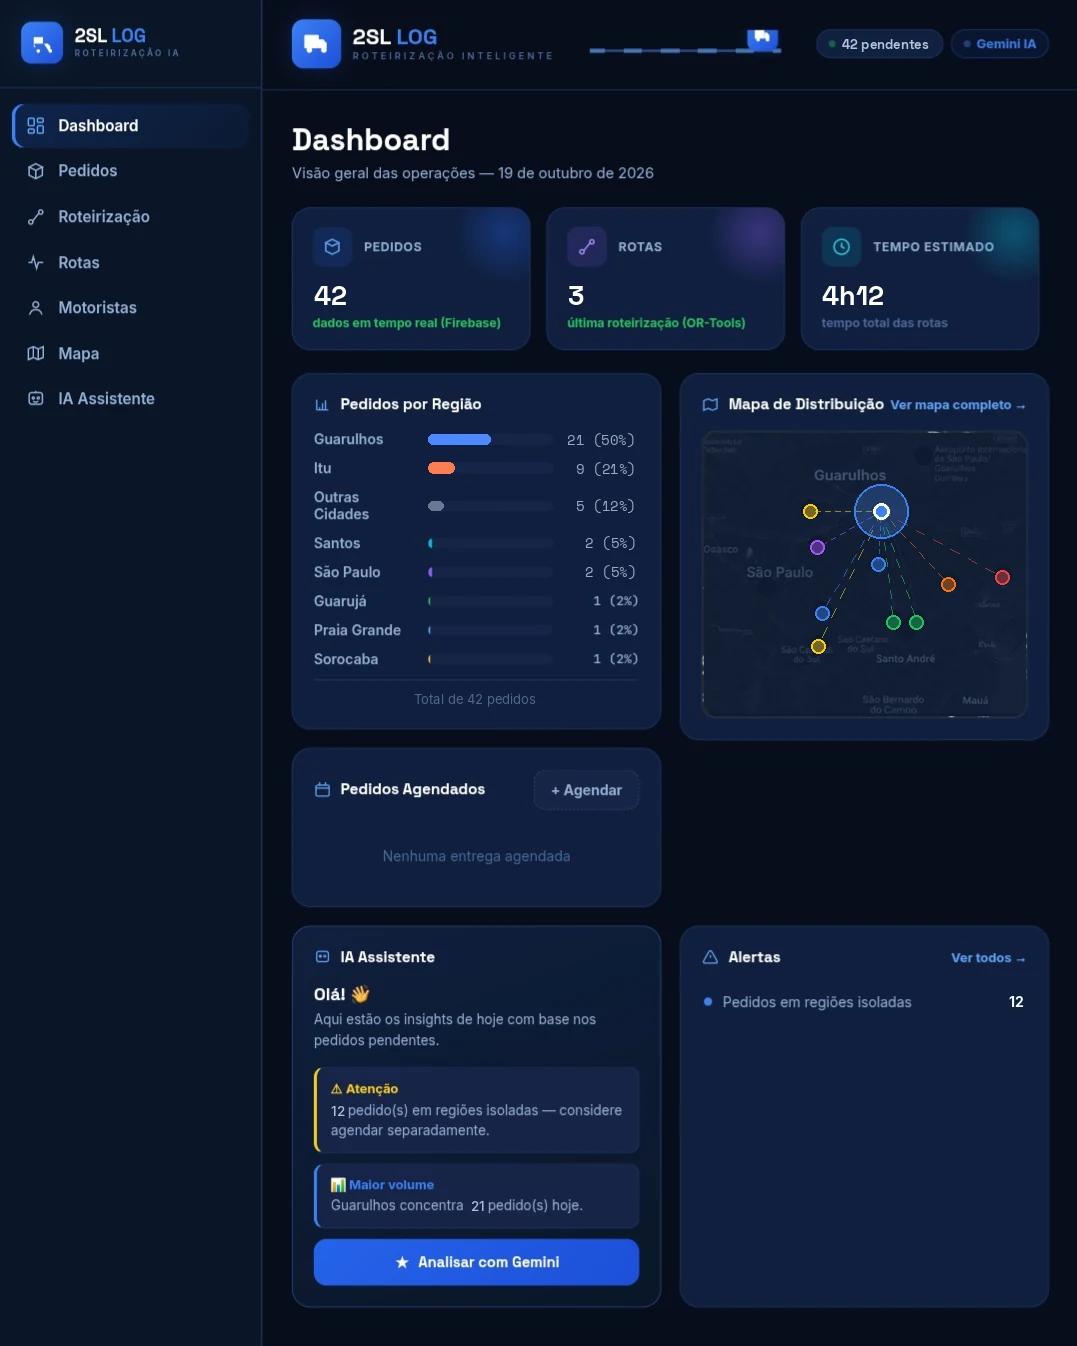
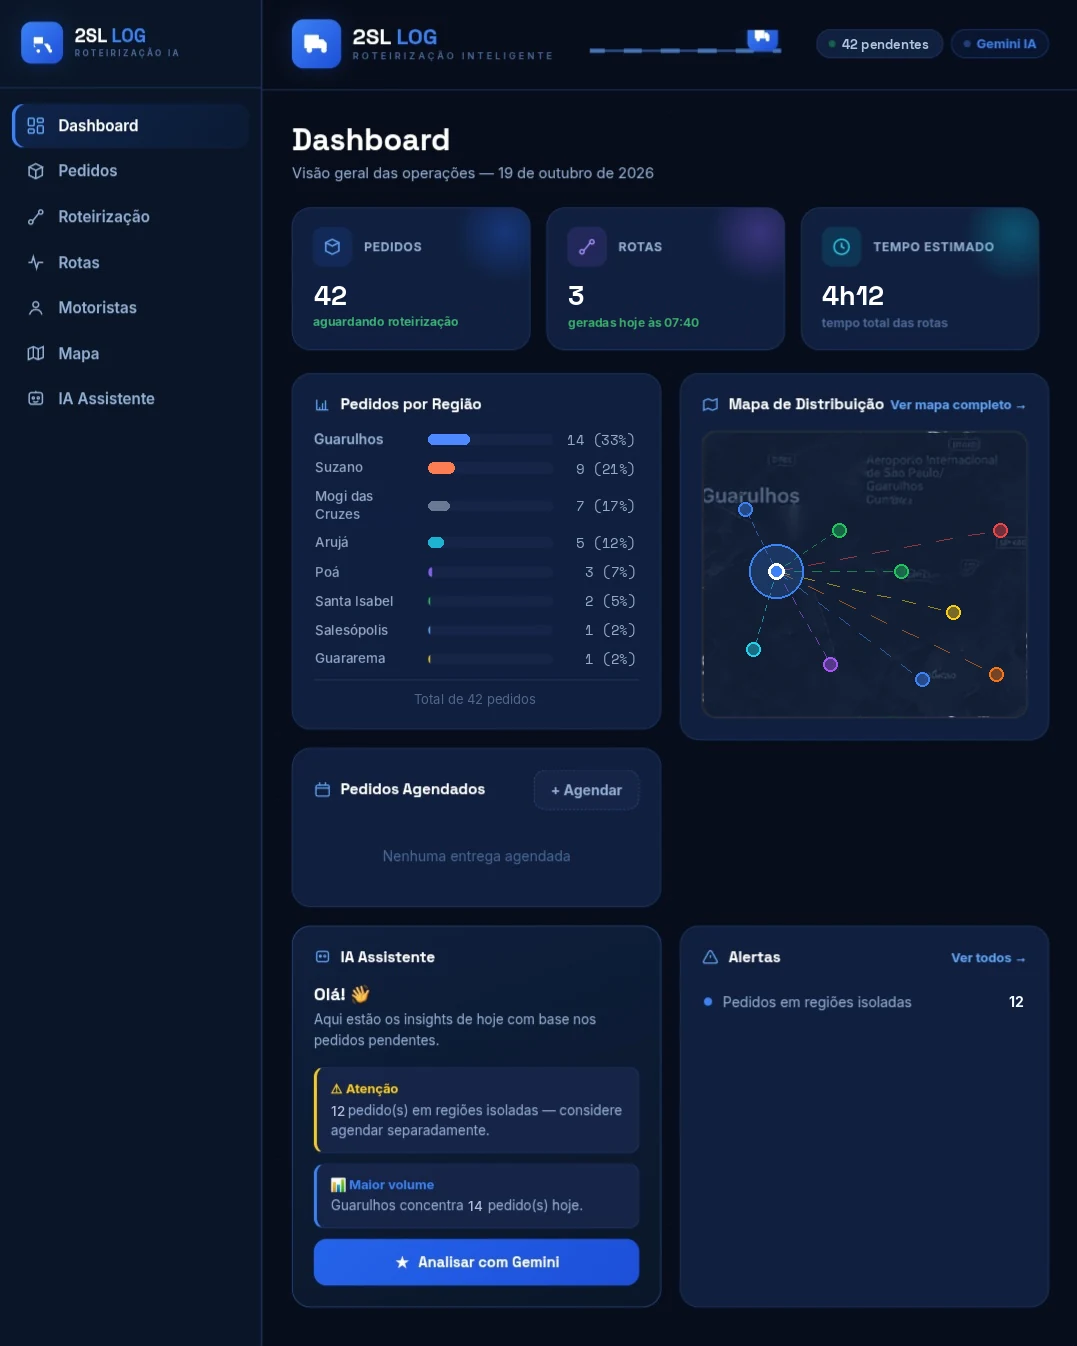
Modelos de empresas com dados diferentes entre si
- Via Verde: 87 pedidos, 6 rotas, cidades da Grande SP, data 16/10,
  usuário genérico e textos sem Firebase/OR-Tools
- 2SL Log: cidades do Alto Tietê e mapa de outro trecho, sem marcadores
  antigos

Claude-Session: https://claude.ai/code/session_01Y2emP6HBaBvSJzja7iZRew

diff --git a/README.md b/README.md
@@ -69,8 +69,9 @@ A imagem precisa de endereço completo; por isso ela não está ligada ainda.
 
 - O topo mostra a imagem do painel (`img/painel-rotav3.webp`), enviada em 18/10/2026. O notebook e o celular em 3D foram retirados a pedido, e com eles saíram `js/hero3d.js`, `js/screens.js` e `img/hero-devices.webp` (continuam no histórico do Git).
 - A seção "Modelos de empresas parceiras" usa duas capturas de tela enviadas em 19/10/2026:
-  - `img/modelo-viaverde.webp`: painel com a identidade da Via Verde Transportes, sem edição.
-  - `img/modelo-2sl-log.webp`: painel escuro da 2SL Log, editado para não repetir os números do outro modelo (42 pedidos, 3 rotas, 4h12, pedidos por região, 12 alertas). O mapa original mostrava o aviso "API KEY REQUIRED" do Google Maps; no lugar dele entrou uma versão escura do mapa da outra captura, com os pontos redesenhados.
+  - `img/modelo-viaverde.webp`: painel com a identidade da Via Verde Transportes, editado para não repetir os dados do painel do topo: 87 pedidos, 6 rotas, 7h18, data 16/10/2026, regiões da Grande São Paulo (São Paulo, Santo André, São Bernardo, Osasco, Mauá, São Caetano, Diadema), 14 alertas; usuário trocado de "Henrique Santos" para "Equipe Operacional"; os textos "dados em tempo real (Firebase)" e "última roteirização (OR-Tools)" viraram "pendentes para hoje" e "planejadas para hoje".
+  - `img/modelo-2sl-log.webp`: painel escuro da 2SL Log, editado: 42 pedidos, 3 rotas, 4h12, regiões do Alto Tietê (Guarulhos, Suzano, Mogi das Cruzes, Arujá, Poá, Santa Isabel, Salesópolis, Guararema), 12 alertas, "aguardando roteirização" e "geradas hoje às 07:40". O mapa original mostrava o aviso "API KEY REQUIRED" do Google Maps; no lugar entrou um trecho escurecido de outro mapa (região de Guarulhos), sem os marcadores antigos, com pontos e linhas redesenhados.
+  - O painel do topo (`img/painel-rotav3.webp`) não foi alterado: 65 pedidos, 5 rotas, 02/10/2026.
 - Se houver capturas novas, é só substituir os arquivos com os mesmos nomes. Os cartões mostram a imagem na proporção 16 : 15, a partir do topo (o corte é feito pelo CSS, `object-fit: cover`).
 
 ## Painel de planejamento
